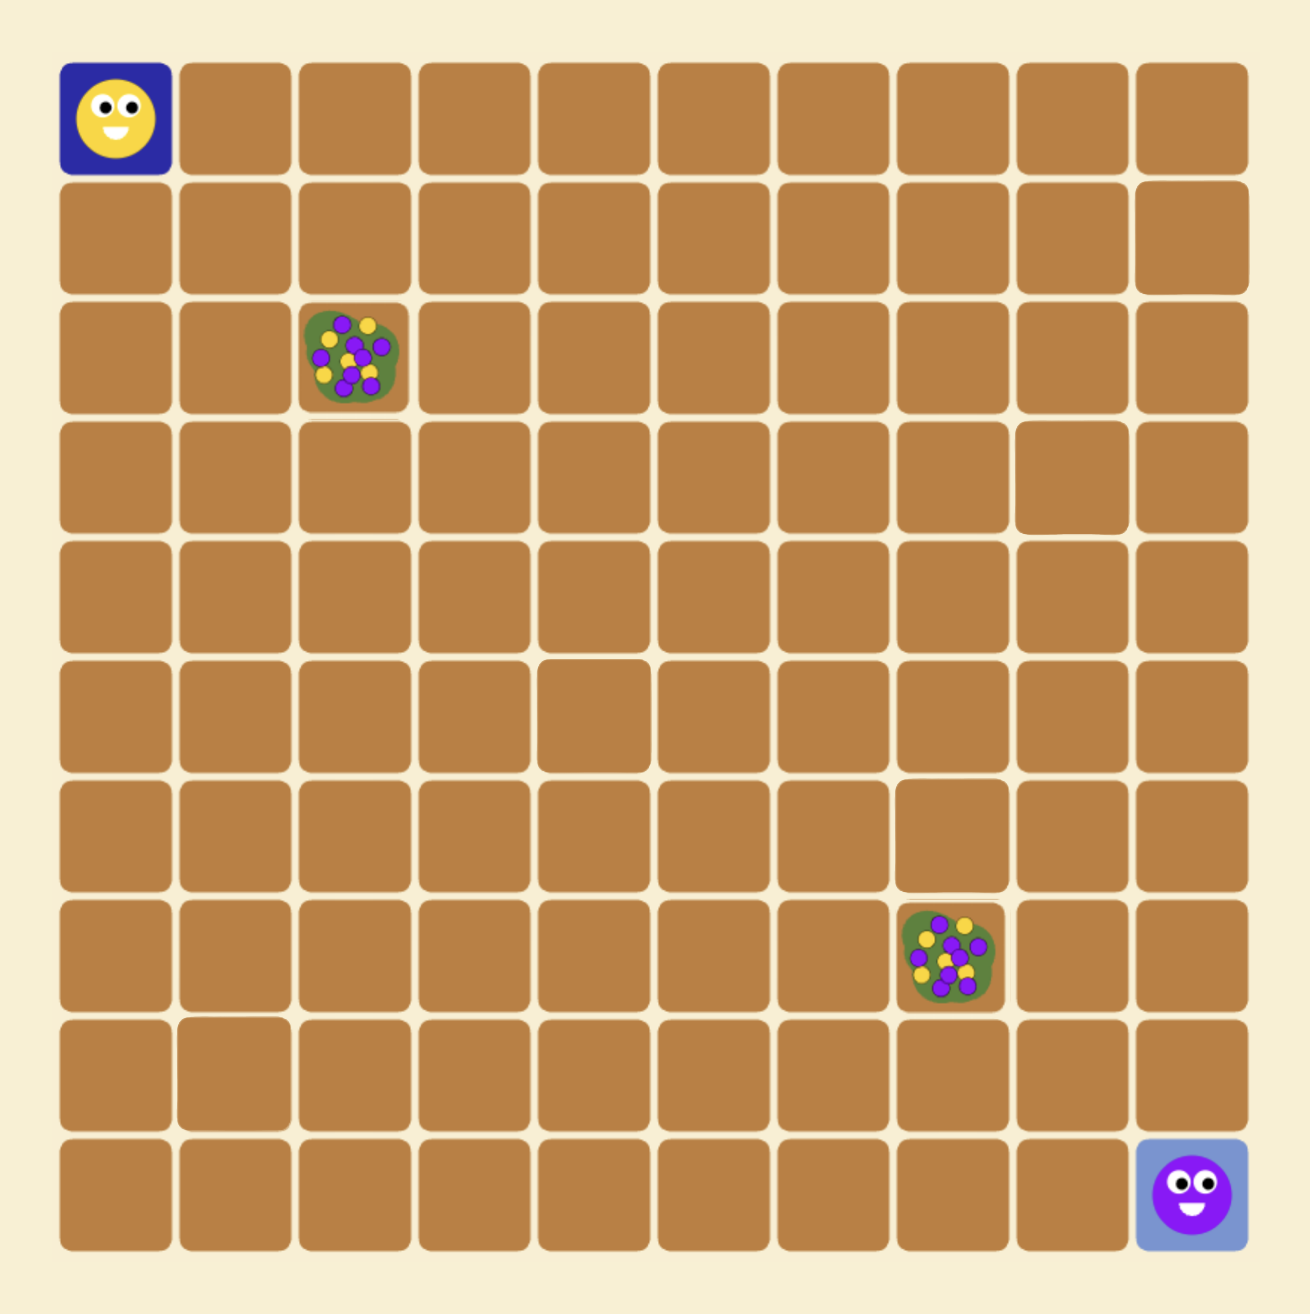
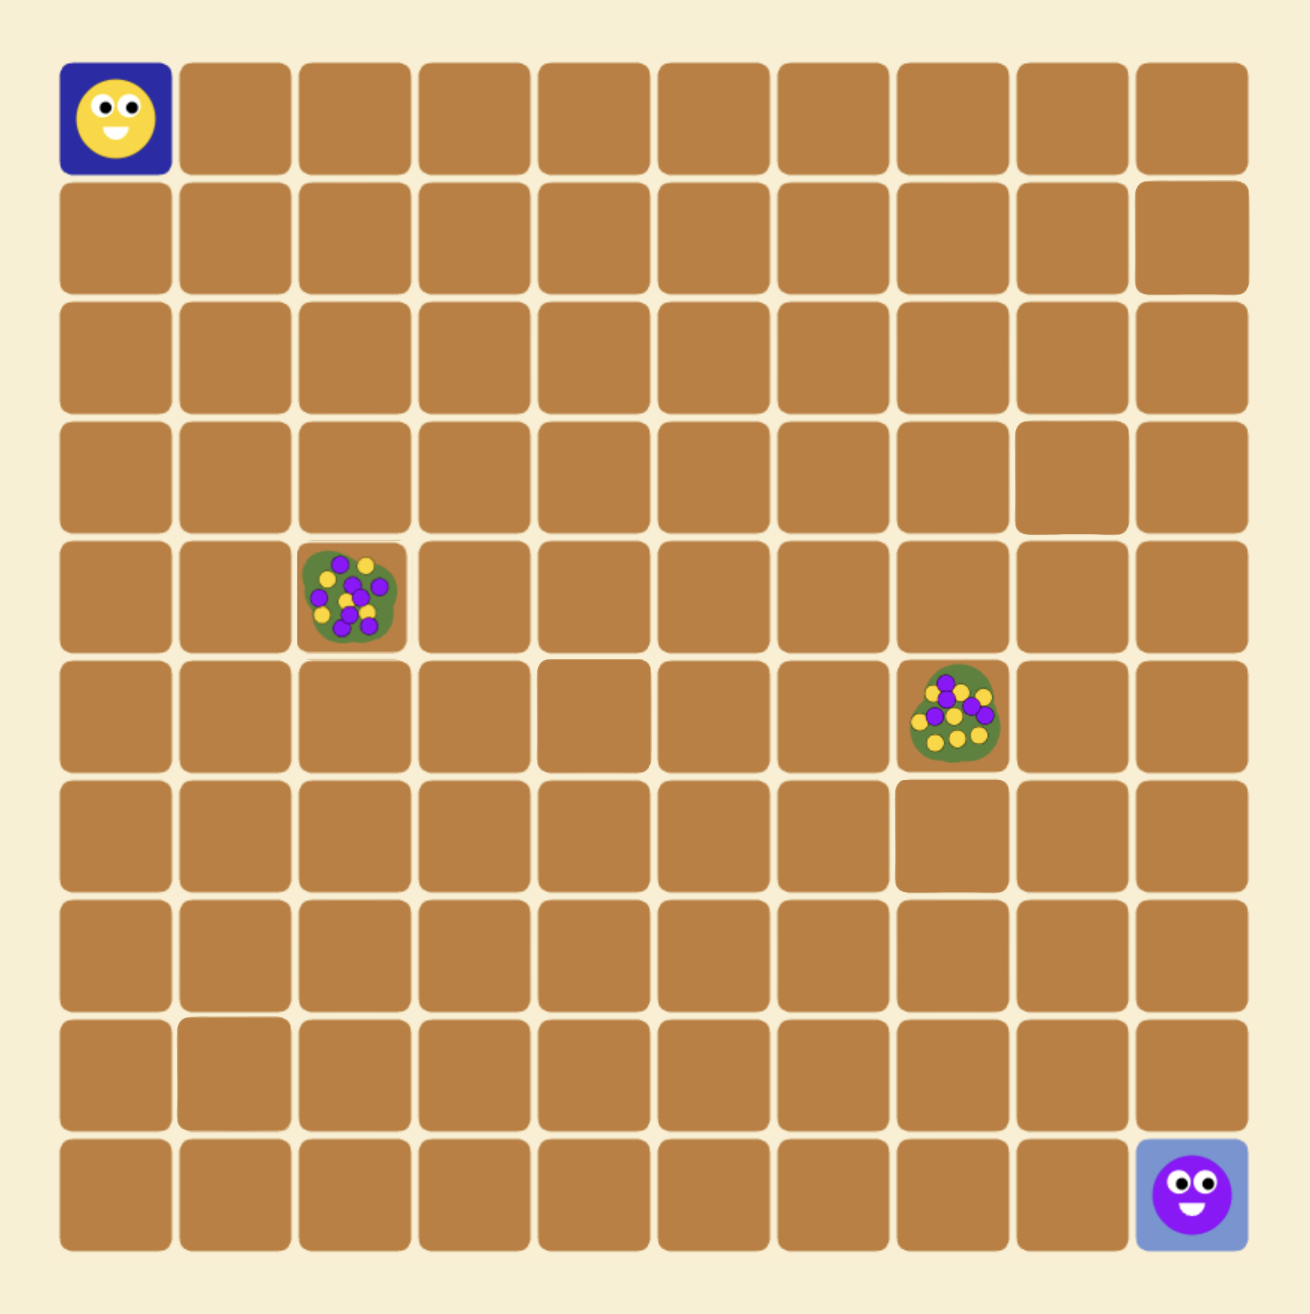
update tree location

diff --git a/Exp2/js/setup.js b/Exp2/js/setup.js
@@ -168,19 +168,18 @@ function setupGame() {
 
      <p>However, if they harvest the same tree, the one who travels close will still receive <strong>5</strong> berries but the one who travels far and arrived later will only left with <strong>1 berry</strong> to harvest.</p>
 
-     <img height="500" src="assets/image/gridworld-2trees.png">
-
      <p><strong>The number of berries each farmer will get will depend on both which tree they harvest and which tree the other farmer choose to harvest.</strong></p>
-    `
+     
+     <img height="500" src="assets/image/gridworld-2trees.png">
+     `
 
   : `<p>This means, if each farmer goes to the tree closer to them seperately, they will harvest <strong>5 berries</strong>.</p>
 
      <p>If each farmer goes to the farther tree seperately, they will harvest <strong>8 berries</strong>.</p>
 
-     <img height="500" src="assets/image/gridworld-2trees.png
-     ">
-
      <p><strong>Each farmer always gets the same berries regardless of where the other goes.</strong></p>
+
+     <img height="500" src="assets/image/gridworld-2trees.png">
   `;
 
   var taskInstructionsHTML = [
@@ -208,7 +207,7 @@ function setupGame() {
 
     `<p>You will observe ${yellow_text} and ${purple_text} harvest berries over
     <strong>${numCoordinationRounds + 1} rounds</strong>.</p>
-    <p>Watch carefully how they coordinate (or don't) at each tree!</p>`,
+    <p>Watch carefully which tree they choose to harvest!</p>`,
 
     `<p>After observing the farmers, you will answer some questions about what you saw
     and what you think about their behavior.</p>`,

diff --git a/Exp2/js/trial_config.js b/Exp2/js/trial_config.js
@@ -13,12 +13,12 @@ function generateCoordinationTrials(numRounds, payoffCondition) {
 
 const trees = [
   {
-    position: [3, 3],
+    position: [3, 5],
     reward_yellow: 5,
     reward_purple: 8
   },
   {
-    position: [8, 8],
+    position: [8, 6],
     reward_yellow: 8,
     reward_purple: 5
   }
@@ -87,12 +87,12 @@ function generateCriticalTrial(trialNumber, payoffCondition) {
 console.log("Generating critical trial with condition:", payoffCondition);
   const trees = [
   {
-    position: [3, 3],
+    position: [3, 5],
     reward_yellow: 5,
     reward_purple: 8
   },
   {
-    position: [8, 8],
+    position: [8, 6],
     reward_yellow: 8,
     reward_purple: 5
   }
